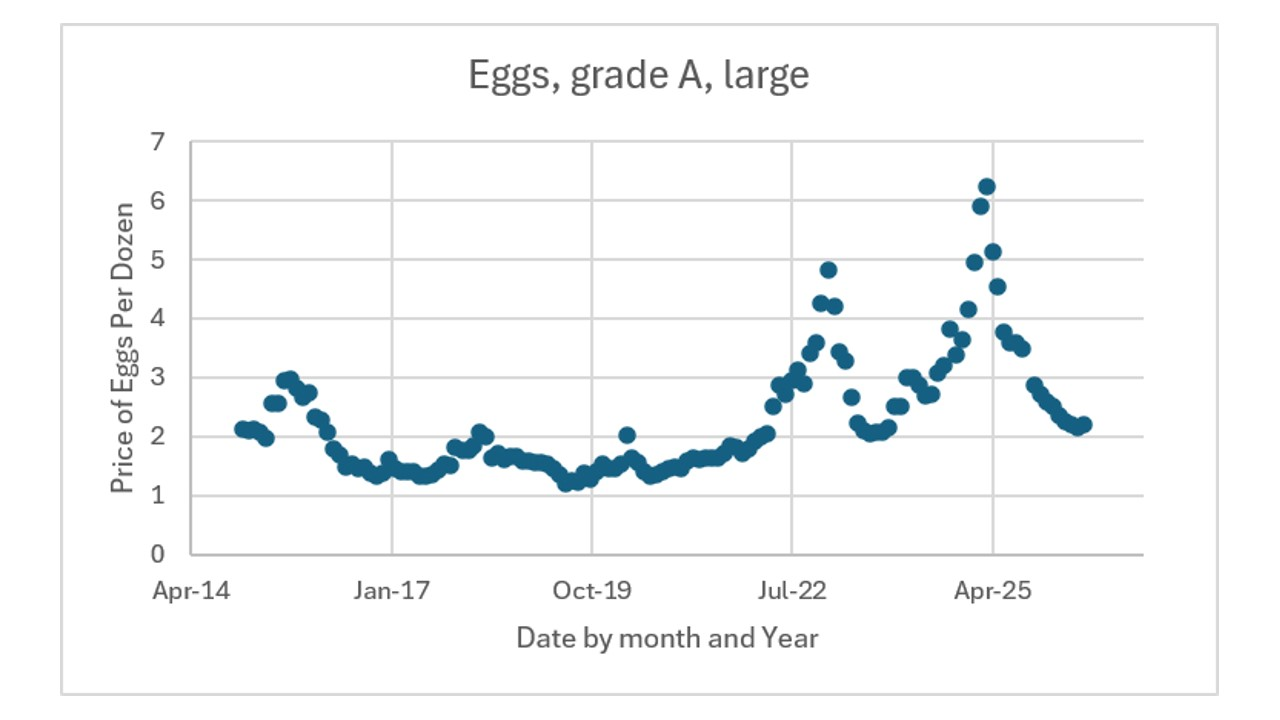
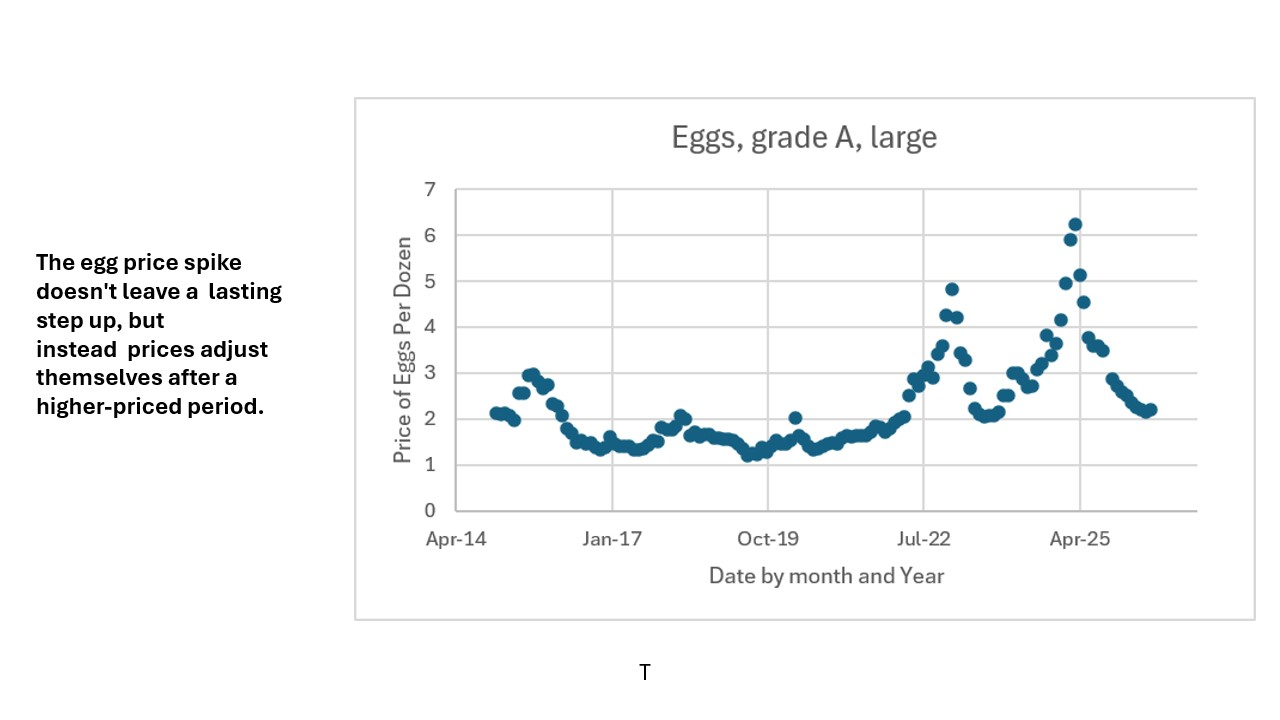
push

diff --git a/docs/posts/Intro to IE Data Analysis Presentation/index.html b/docs/posts/Intro to IE Data Analysis Presentation/index.html
@@ -143,7 +143,7 @@ ul.task-list li input[type="checkbox"] {
       <div>
       <div class="quarto-title-meta-heading">Author</div>
       <div class="quarto-title-meta-contents">
-               <p>Ryan Davis, Adam harding, Chase Gibbons, Molly Lingenfelter, Mahala Williamson </p>
+               <p>Ryan Davis, Adam Harding, Chase Gibbons, Molly Lingenfelter, Mahala Williamson </p>
             </div>
     </div>
       
@@ -179,7 +179,7 @@ ul.task-list li input[type="checkbox"] {
 <div class="quarto-figure quarto-figure-center">
 <figure class="figure">
 <p><img src="Slide3.jpg" class="img-fluid figure-img"></p>
-<figcaption>notes</figcaption>
+<figcaption>Did the egg price spike leave a lasting step up? Our group found this question interesting because the price of eggs are one of the few groceries that directly correlate to both the economy and state of the country health-wise. We wanted to know how often the price of eggs, whether based on the economy or the medical state of the U.S., drastically changed, and if it did, how drastic was the change? To answer this, we calculated the average price per month of eggs per dozen through ten years to get a better idea of how drastically prices changed. We found that although there were occasionally periods of high prices and spikes of egg prices, that after a couple months, the prices returned to a normal, or average, price. The plot shows how, over time, prices spike and lower throughout the years but ultimately equal back out to an average price.</figcaption>
 </figure>
 </div>
 <div class="quarto-figure quarto-figure-center">

diff --git a/docs/projects.html b/docs/projects.html
@@ -261,7 +261,7 @@ Oct 1, 2026
 </div>
 </div></a>
 </div>
[2 lines of base64/hex data omitted]
 <a href="./posts/Intro to IE Data Analysis Presentation/index.html" class="quarto-grid-link">
 <div class="quarto-grid-item card h-100 card-left">
 <p class="card-img-top">
